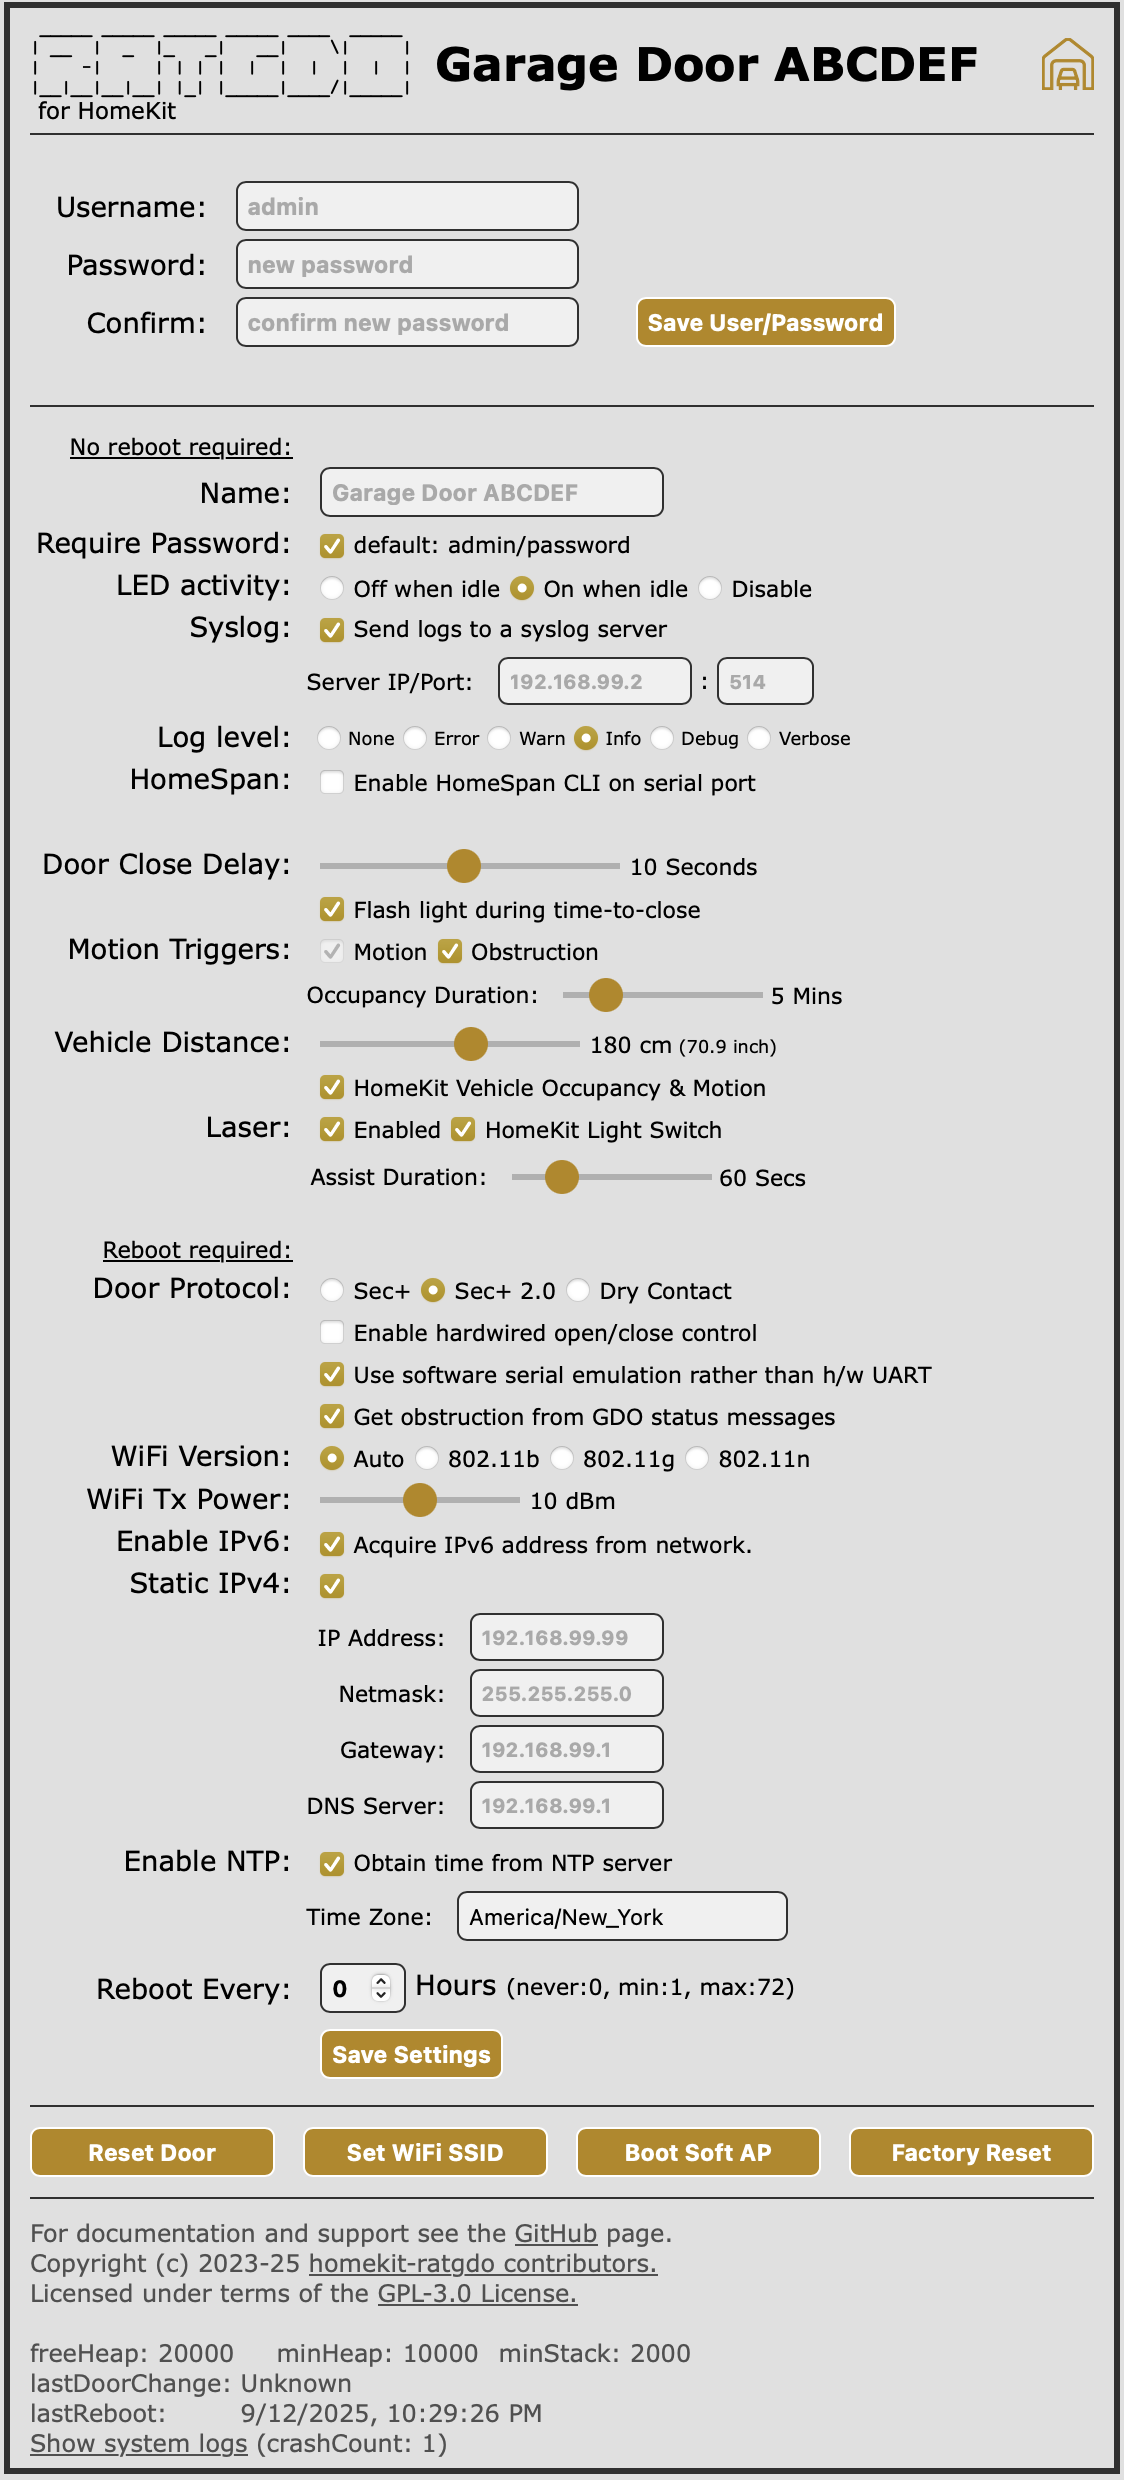
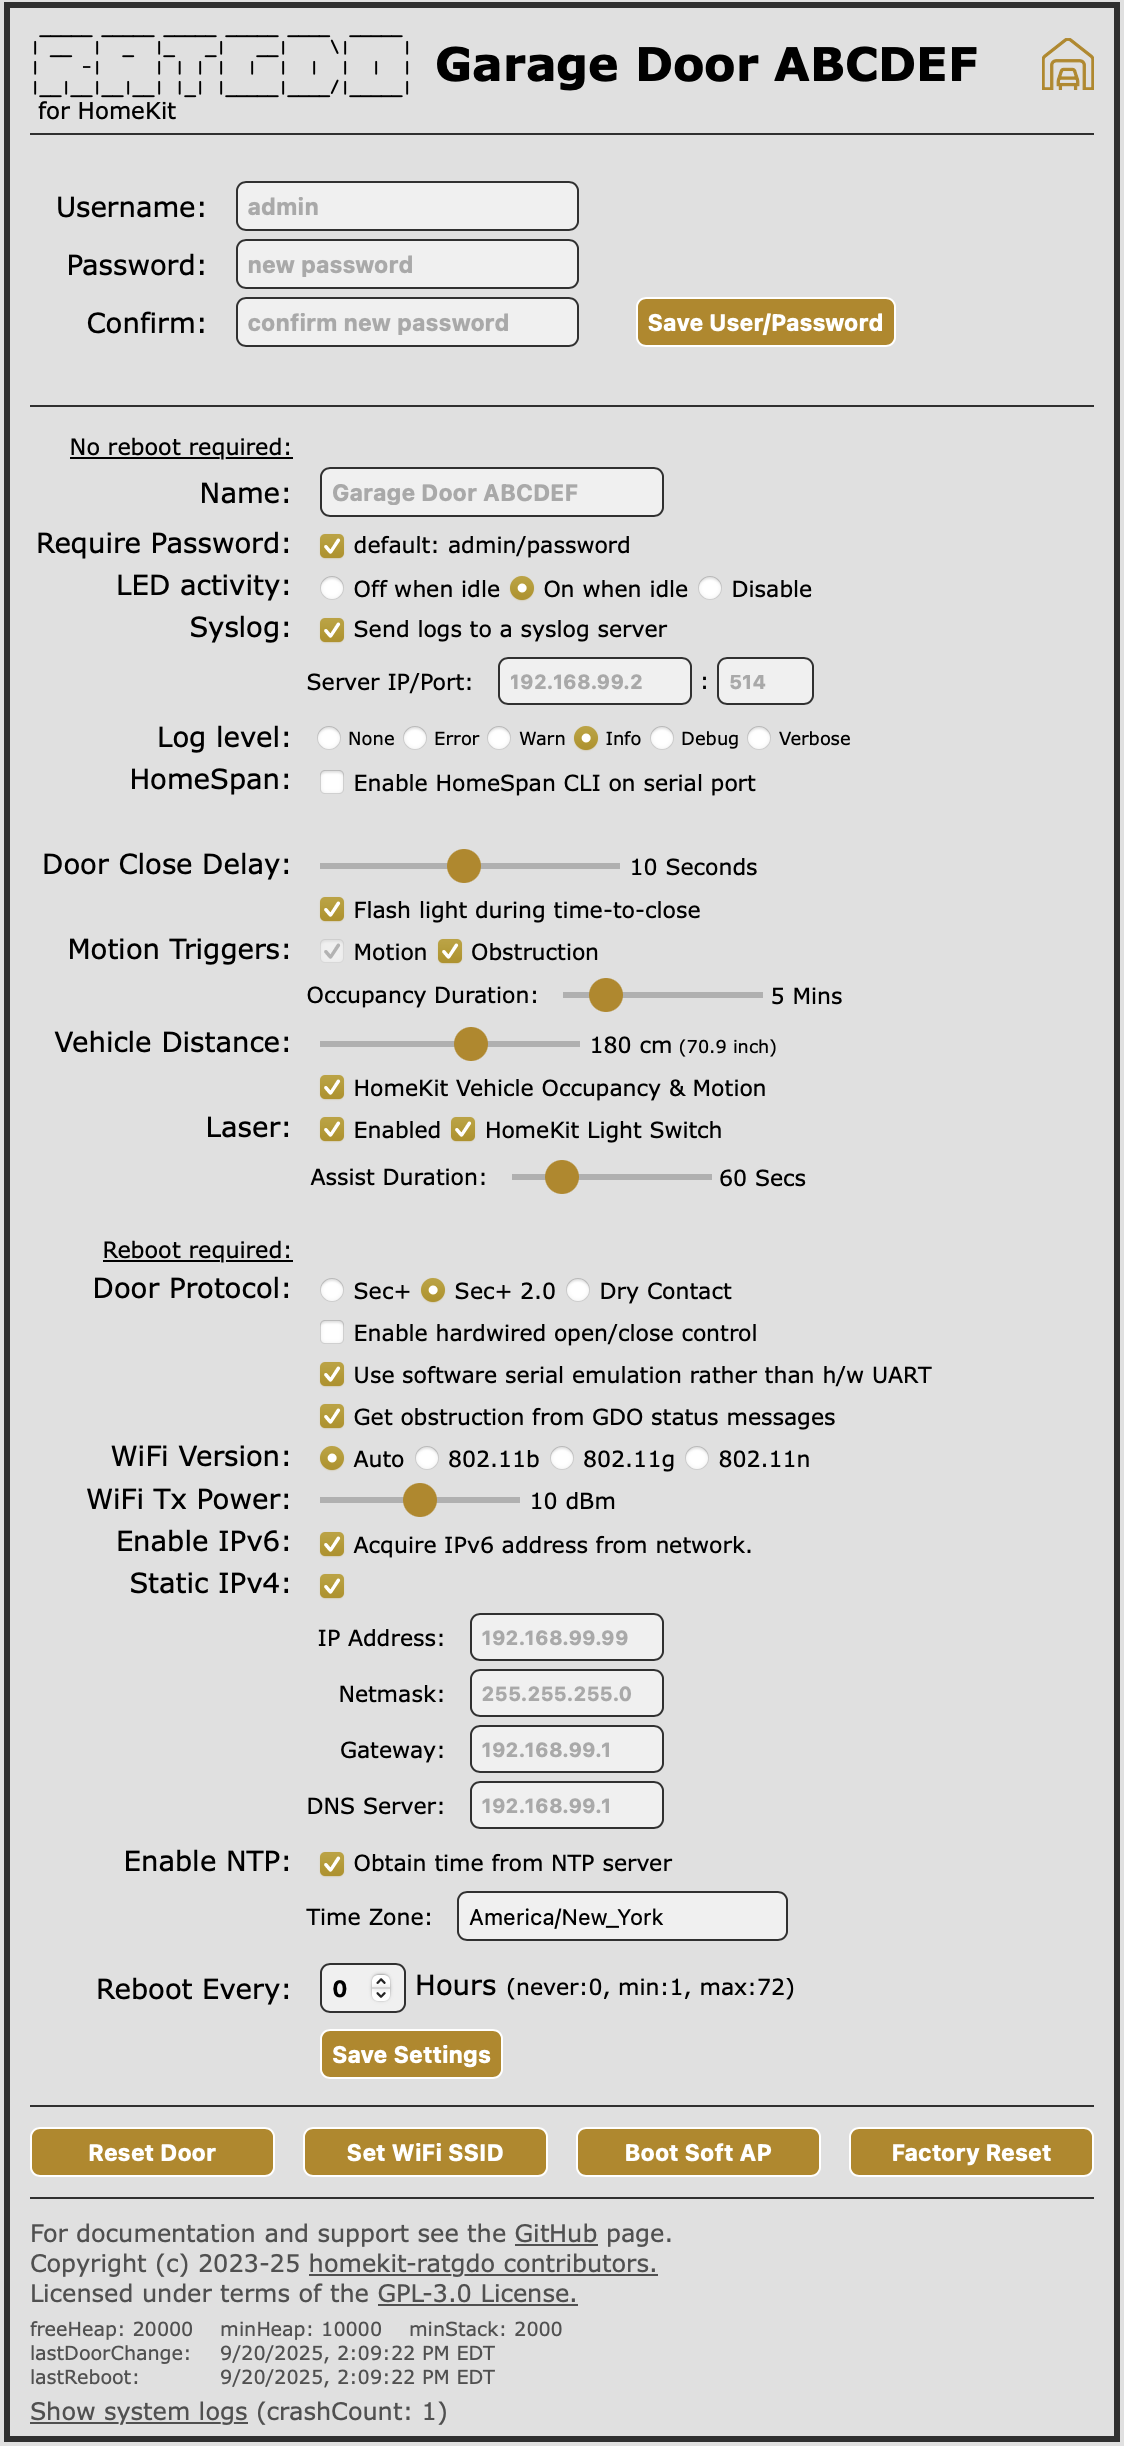
Update CHANGELOG.mg README.md and version number

diff --git a/CHANGELOG.md b/CHANGELOG.md
@@ -4,6 +4,21 @@
 
 All notable changes to `homekit-ratgdo32` will be documented in this file. This project tries to adhere to [Semantic Versioning](http://semver.org/).
 
+## v3.3.3 (2025-09-20)
+
+### What's Changed
+
+* Bugfix... Date and time on web page now displayed in the time zone of the server (NTP server feature must be enabled).
+* Bugfix... Log level was not getting set correctly (should take effect immediately but it required a reboot).
+* Bugfix... Park assist laser was not activating on vehicle arrival (since v3.3.0).
+* Bugfix... Displaying last reboot log was missing time stamps.
+* New Feature... last door open and close date and time is displayed under opening/closing status (NTP server feature must be enabled).
+* Other... Add a "home" button to system logs page because iOS and iPad OS 26 have removed the "done" button.
+
+### Known Issues
+
+* Sec+ 1.0 doors with digital wall panel (e.g. 889LM) sometimes do not close after a time-to-close delay. Please watch your door to make sure it closes after TTC delay.
+
 ## v3.3.2 (2025-09-14)
 
 ### What's Changed

diff --git a/README.md b/README.md
@@ -104,6 +104,8 @@ For Security+ 2.0 doors, the number of times the door has been opened and closed
 
 _Opening_ and _Closing_ values represent the time it takes for the door to open or close. This is averaged over the last five door operations amd resets when the ratgdo is rebooted.
 
+If the _Obtain time from NTP server_ option is selected then the last date and time of door opening/closing is displayed under the _opening_ and _closing_ durations in the time-zone selected on the settings page. These time stamps persist across device reboot, but may not display immediately after reboot as the current time must first be received from NTP server by the ratgdo.
+
 For ratgdo32-disco boards, vehicle status is shown as _Away_, _Parked_, _Arriving_ or _Departing_. A distance value in centimeters is also shown that represents the distance between the ratgdo board and either the garage floor (if no vehicle present) or the roof/hood of the vehicle. It is normal for this value to fluctuate. See section below on setting vehicle distance threshold.
 
 > [!NOTE]
